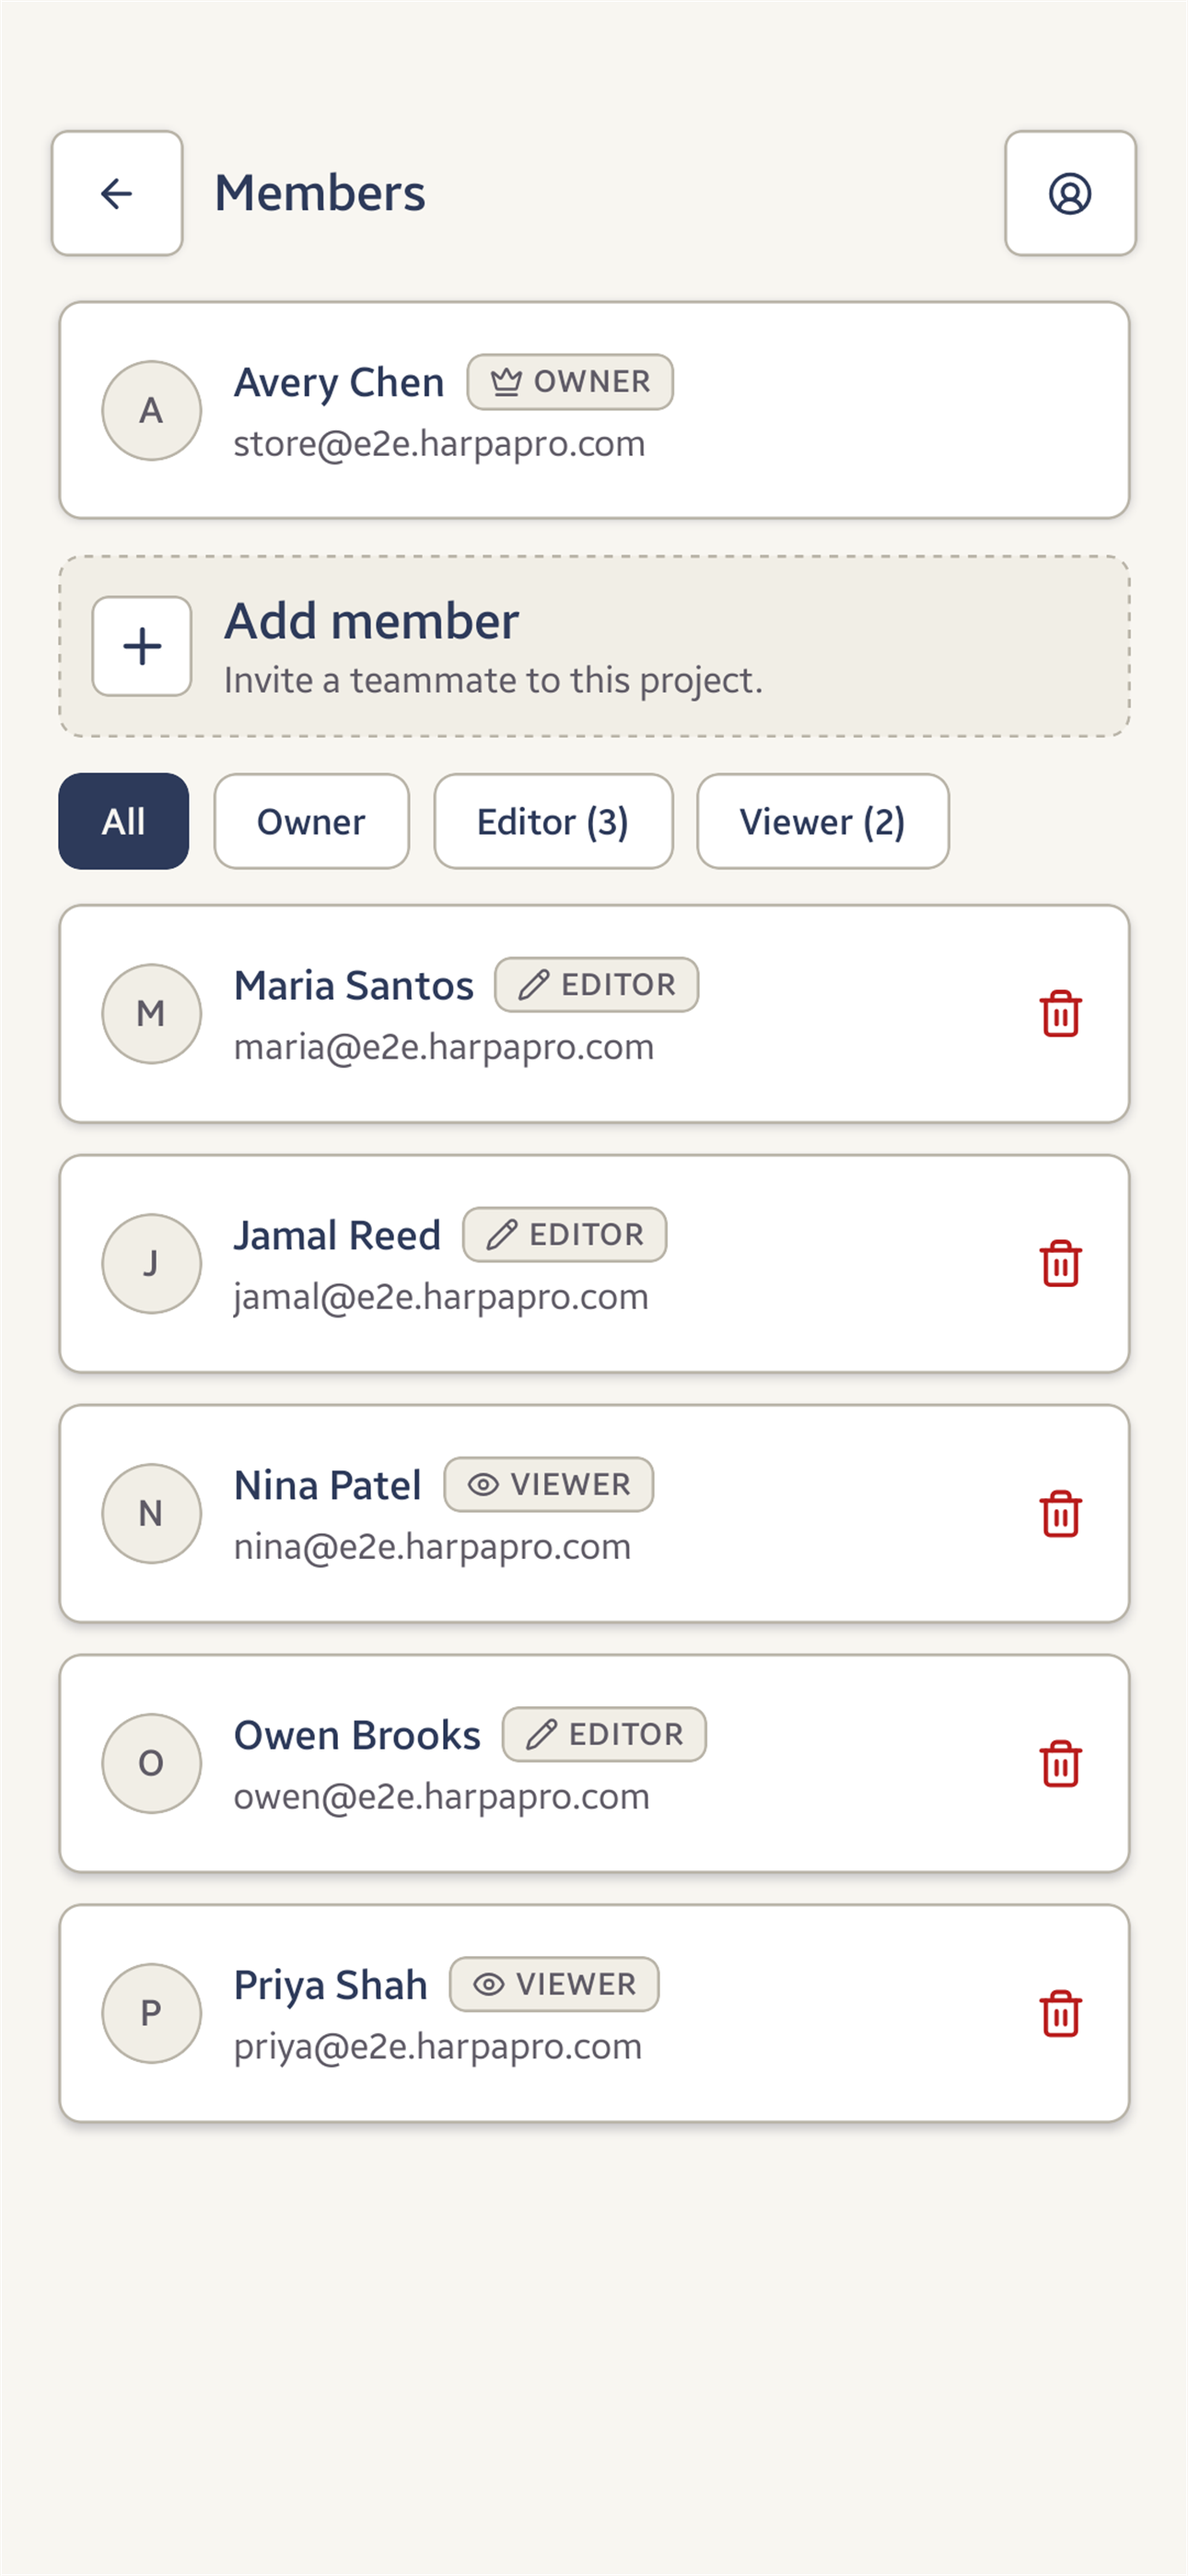
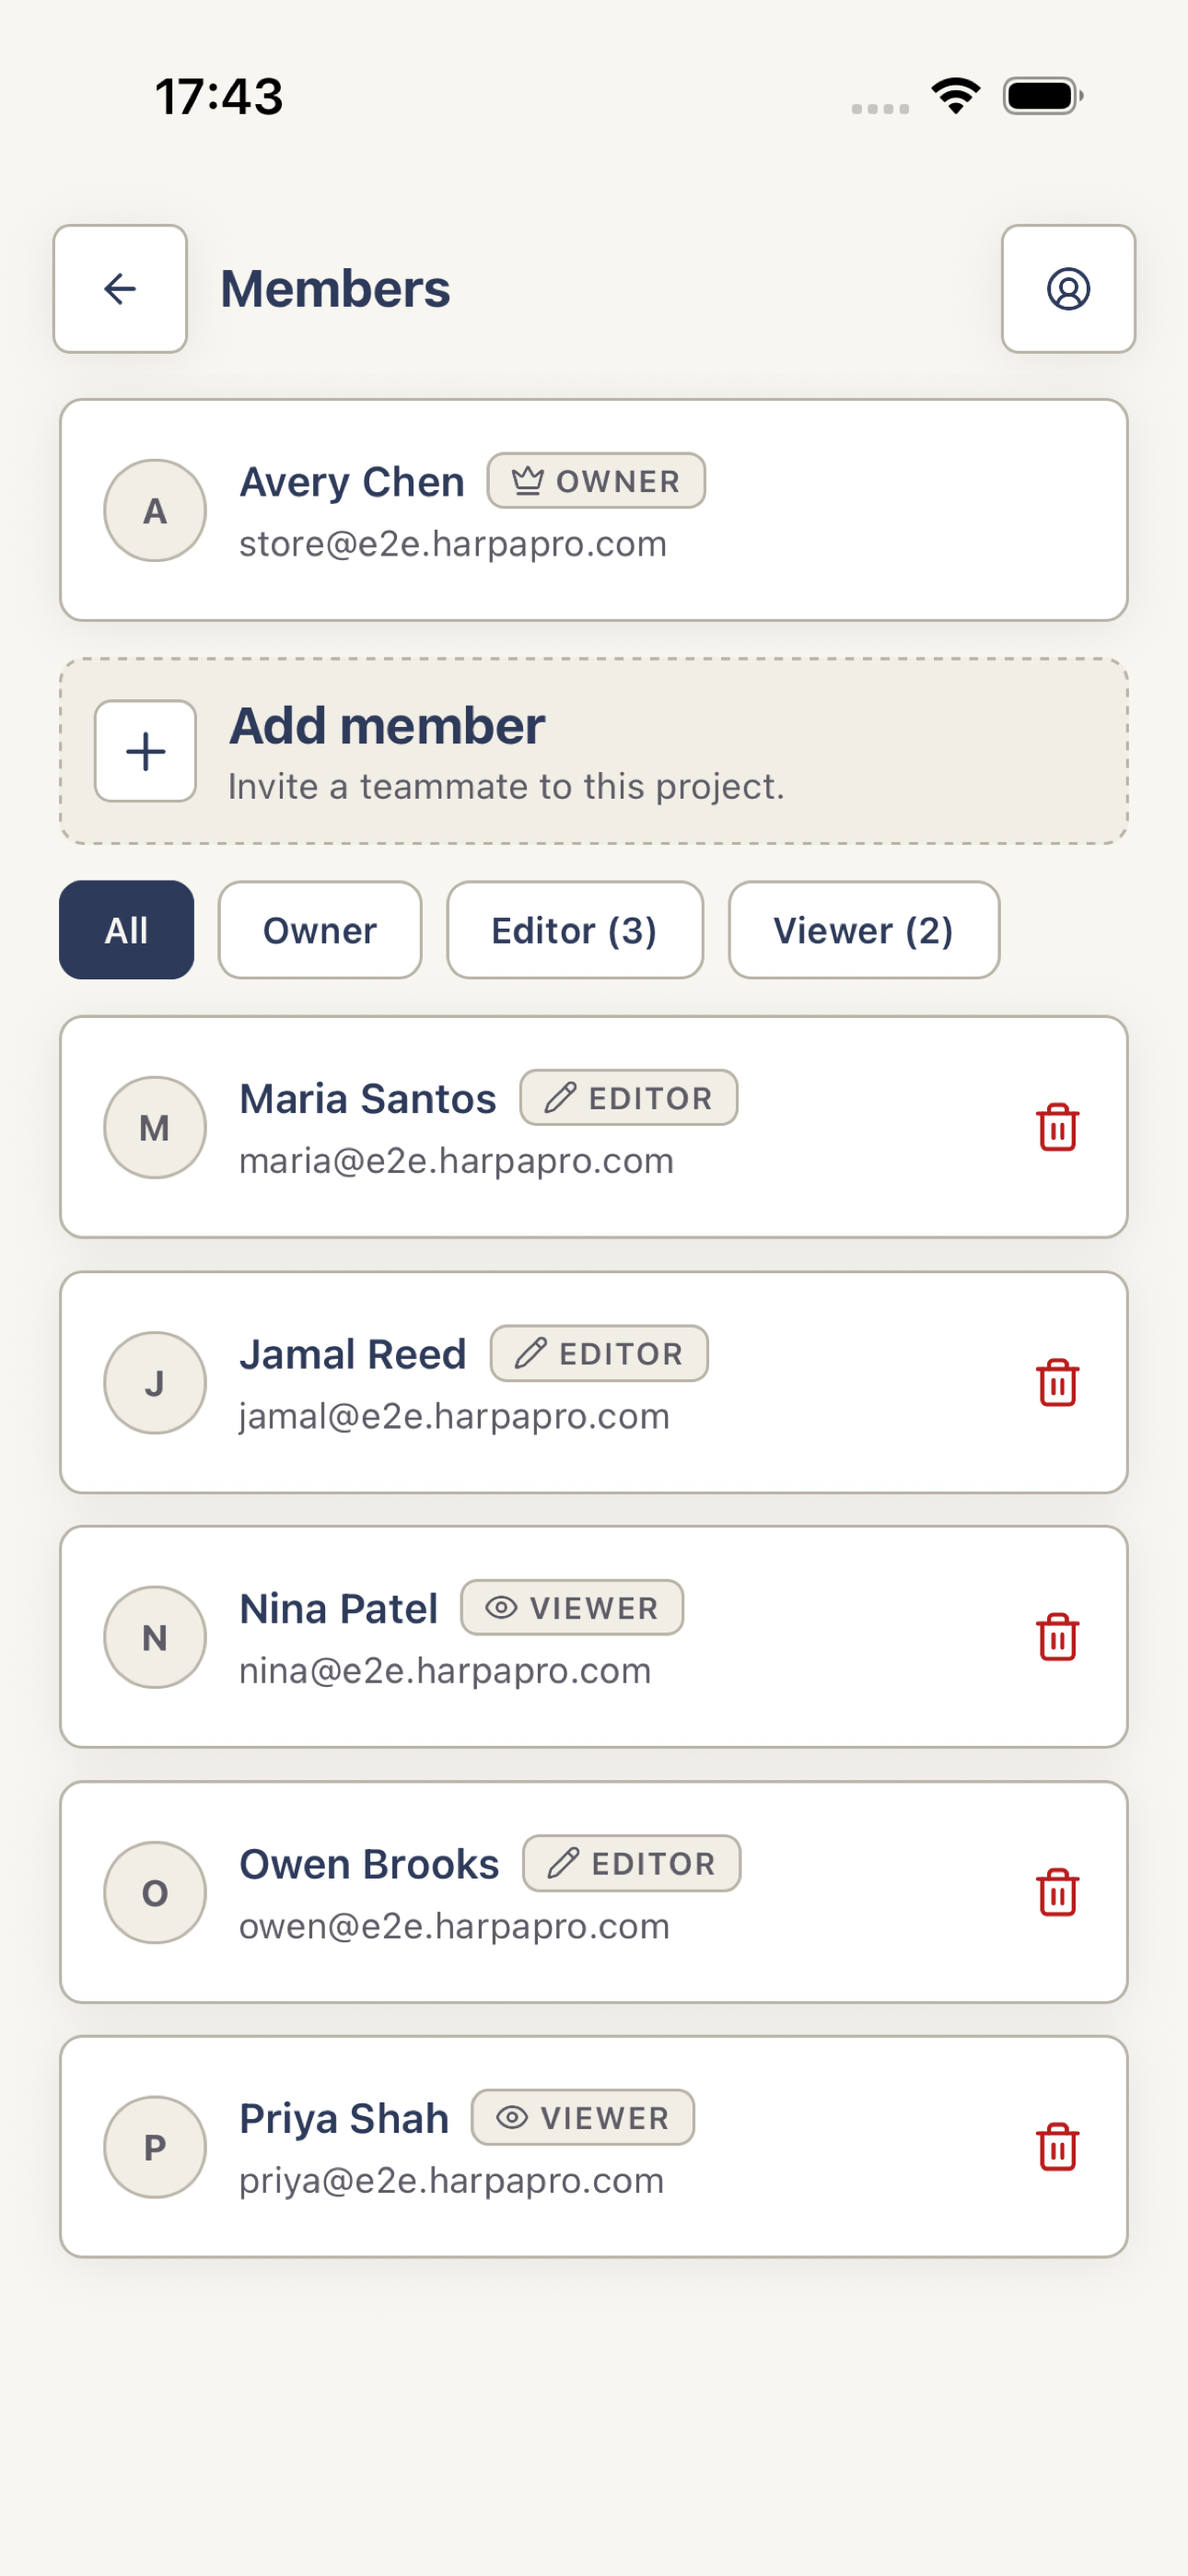
chore(mobile): update ios store screenshots

Changed region(s): [[0.031, 0.0311, 0.9612, 0.8712], [0.8372, 0.3423, 0.8682, 0.3734]]

diff --git a/apps/mobile/app/_layout.test.tsx b/apps/mobile/app/_layout.test.tsx
@@ -1,0 +1,81 @@
+import React from 'react';
+import { describe, expect, it, vi } from 'vitest';
+import { act, create } from 'react-test-renderer';
+
+function provider(name: string) {
+  return ({ children }: { children?: React.ReactNode }) =>
+    React.createElement(name, null, children);
+}
+
+async function renderRootLayout({ screenshotMode }: { screenshotMode: boolean }) {
+  vi.resetModules();
+
+  vi.doMock('expo-router', () => ({
+    Slot: () => React.createElement('rn-Slot', null, null),
+  }));
+
+  vi.doMock('expo-status-bar', () => ({
+    StatusBar: (props: Record<string, unknown>) =>
+      React.createElement('rn-status-bar', props, null),
+  }));
+
+  vi.doMock('@tanstack/react-query-persist-client', () => ({
+    PersistQueryClientProvider: provider('PersistQueryClientProvider'),
+  }));
+
+  vi.doMock('@/lib/auth/session', () => ({
+    AuthSessionProvider: provider('AuthSessionProvider'),
+  }));
+
+  vi.doMock('@/lib/dialogs/DialogSheetProvider', () => ({
+    DialogSheetProvider: provider('DialogSheetProvider'),
+  }));
+
+  vi.doMock('@/lib/uploads/QueueProvider', () => ({
+    QueueProvider: provider('QueueProvider'),
+  }));
+
+  vi.doMock('@/lib/audio/AudioPlaybackProvider', () => ({
+    AudioPlaybackProvider: provider('AudioPlaybackProvider'),
+  }));
+
+  vi.doMock('@/lib/telemetry/Sentry', () => ({
+    SentryProvider: provider('SentryProvider'),
+    captureReactError: vi.fn(),
+    initSentry: vi.fn(),
+  }));
+
+  vi.doMock('@/lib/api/query-client', () => ({
+    queryClient: {},
+    queryPersister: { persister: {}, maxAge: 1, buster: 'test' },
+  }));
+
+  vi.doMock('@/lib/api/query-persister', () => ({
+    shouldDehydrateQuery: vi.fn(),
+  }));
+
+  vi.doMock('@/lib/config/env', () => ({
+    env: { EXPO_PUBLIC_SCREENSHOT_MODE: screenshotMode },
+  }));
+
+  const { default: RootLayout } = await import('./_layout');
+
+  let tree!: ReturnType<typeof create>;
+  act(() => {
+    tree = create(<RootLayout />);
+  });
+  return tree;
+}
+
+describe('RootLayout', () => {
+  it('keeps the system status bar visible in screenshot mode', async () => {
+    const tree = await renderRootLayout({ screenshotMode: true });
+
+    const [statusBar] = tree.root.findAll((node) => String(node.type) === 'rn-status-bar');
+    if (!statusBar) {
+      throw new Error('Expected RootLayout to render a StatusBar');
+    }
+    expect(statusBar.props.hidden).toBe(false);
+    expect(statusBar.props.style).toBe('dark');
+  });
+});

diff --git a/apps/mobile/app/_layout.tsx b/apps/mobile/app/_layout.tsx
@@ -35,7 +35,6 @@ import {
 } from '@/lib/telemetry/Sentry';
 import { queryClient, queryPersister } from '@/lib/api/query-client';
 import { shouldDehydrateQuery } from '@/lib/api/query-persister';
-import { env } from '@/lib/config/env';
 
 // Initialize Sentry when EXPO_PUBLIC_SENTRY_DSN is present.
 initSentry();
@@ -137,7 +136,7 @@ export default function RootLayout() {
             persistOptions={persistOptions}
           >
             <AuthSessionProvider>
-              <StatusBar hidden={env.EXPO_PUBLIC_SCREENSHOT_MODE} style="dark" />
+              <StatusBar hidden={false} style="dark" />
               <DialogSheetProvider>
                 <QueueProvider>
                   <AudioPlaybackProvider>

diff --git a/apps/mobile/lib/config/env.ts b/apps/mobile/lib/config/env.ts
@@ -58,10 +58,9 @@ const Env = z.object({
     .default('false')
     .transform((v) => v === 'true'),
   /**
-   * Store screenshot capture mode. Hides OS chrome such as notification,
-   * clock, and battery icons, and uses deterministic screenshot-only
-   * fixture paths where native device input would make capture flaky.
-   * Intended for local Maestro screenshot runs only.
+   * Store screenshot capture mode. Keeps seeded API data live while using
+   * deterministic screenshot-only fixture paths where native device input
+   * would make capture flaky. Intended for local Maestro screenshot runs only.
    */
   EXPO_PUBLIC_SCREENSHOT_MODE: z
     .enum(['true', 'false'])

diff --git a/.maestro/README.md b/.maestro/README.md
@@ -228,10 +228,11 @@ adb shell settings delete global policy_control || true
 ```
 
 `EXPO_PUBLIC_USE_FIXTURES=false` keeps report and usage data backed by
-the seeded API rows. `EXPO_PUBLIC_SCREENSHOT_MODE=true` hides the status
-bar and uses deterministic screenshot-only input paths such as the canned
-voice recorder backend. Construction images are not bundled into the app;
-the seed script uploads the checked-in photos documented in
+the seeded API rows. `EXPO_PUBLIC_SCREENSHOT_MODE=true` uses
+deterministic screenshot-only input paths such as the canned voice
+recorder backend while leaving system status chrome visible.
+Construction images are not bundled into the app; the seed script
+uploads the checked-in photos documented in
 `apps/mobile/assets/fixtures/store-screenshots.md` to local MinIO.
 
 ## Archived and pending flows
